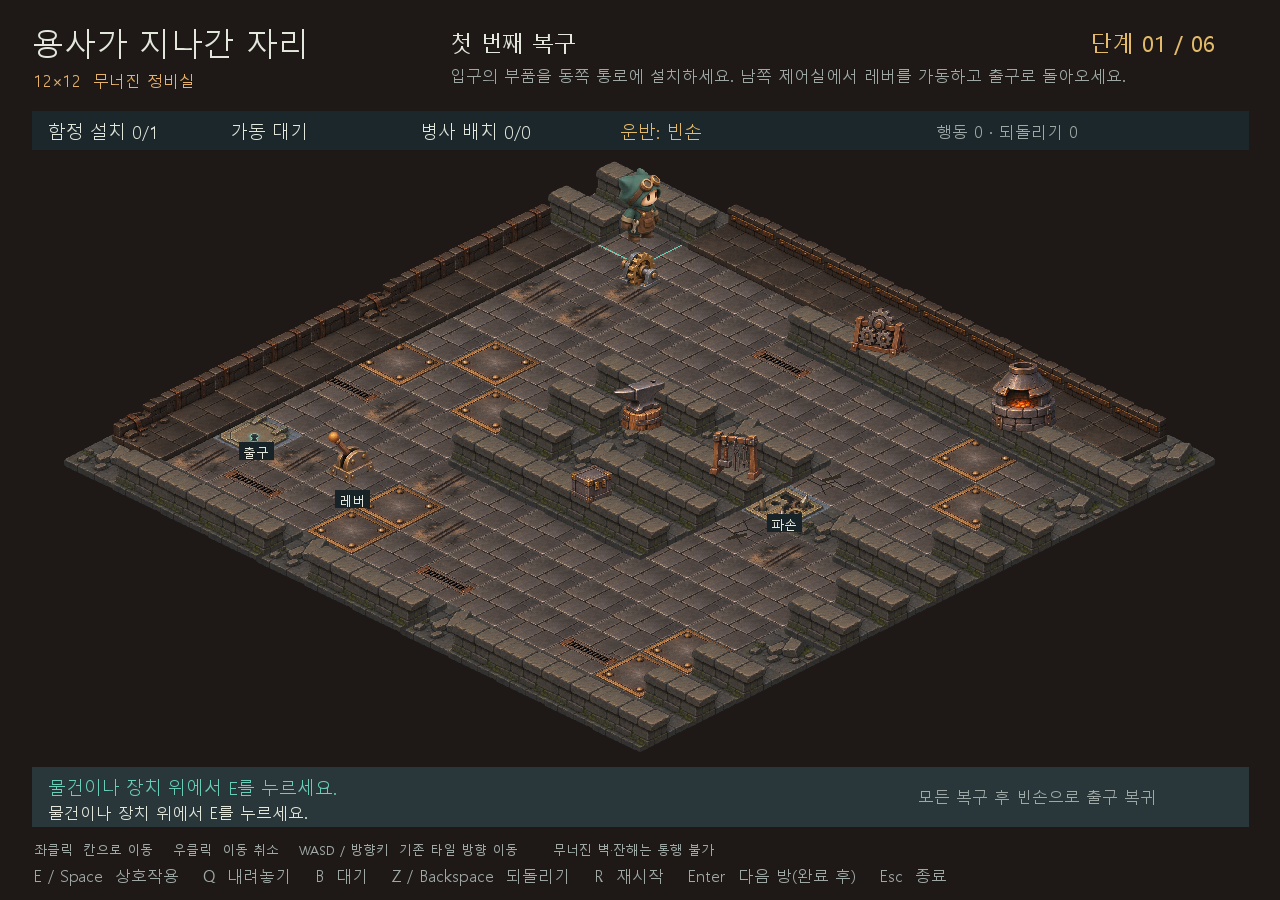
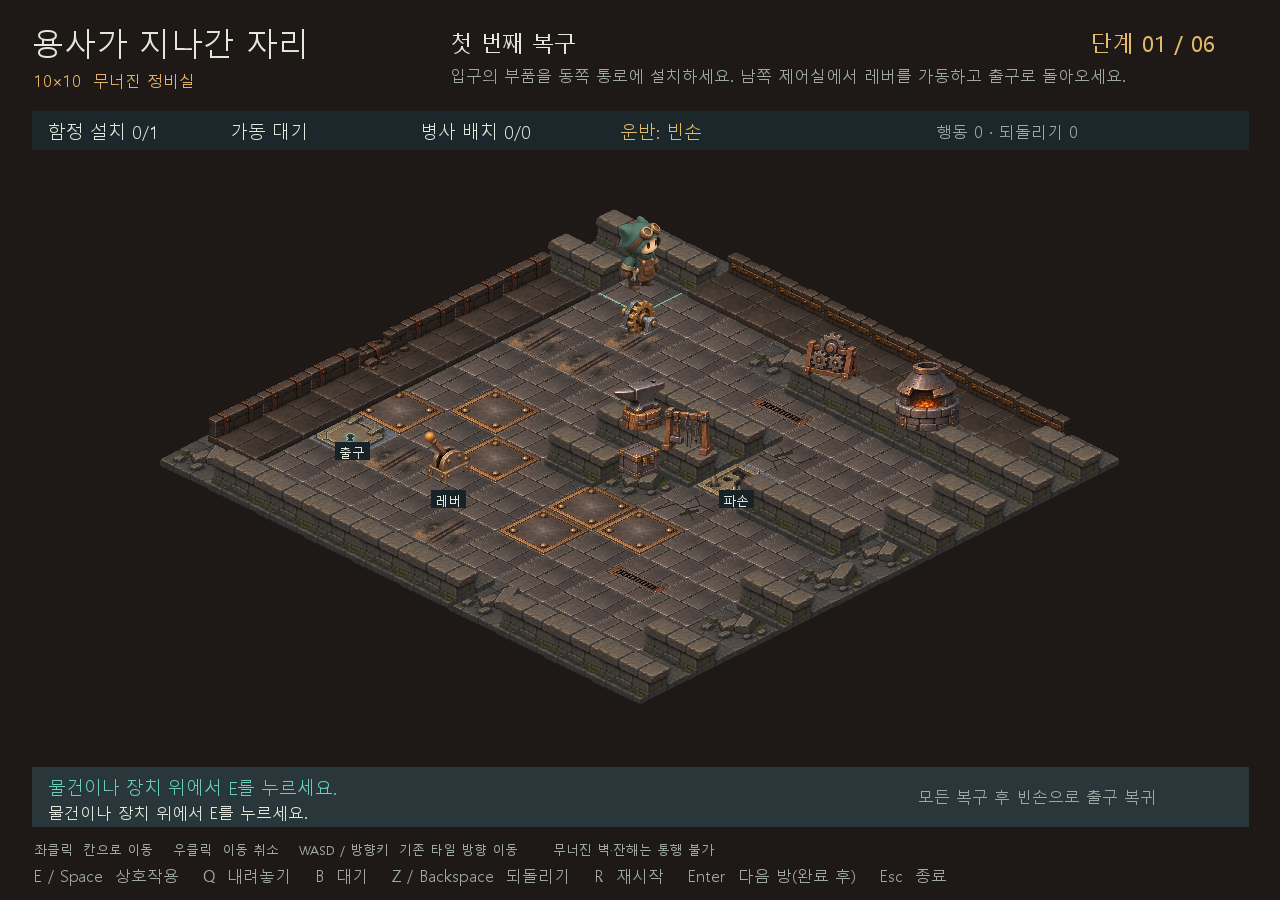
docs: 축소된 방 미리보기와 후반 스테이지 크기 계획 갱신

Changed region(s): [[0.0312, 0.1867, 0.9688, 0.84]]

diff --git a/README.md b/README.md
@@ -39,7 +39,7 @@
 
 ## 바로 실행
 
-**스테이지별 테마를 적용한 프로토타입 0.7**입니다. 12×12 입문방 3개와 발판·투입구·벨트 응용방 3개를 플레이할 수 있습니다. 바닥이나 물건·장치를 왼쪽 클릭하면 해당 칸까지 이동하며, 기존 키보드 조작도 사용할 수 있습니다. 기존 사선 시점과 1280×900 화면에서 바닥·외곽 벽·소품·배경색을 방마다 다르게 표시합니다. 최종 8개 스테이지의 난이도와 플레이 시간은 아직 조정하지 않았습니다.
+**스테이지별 테마를 적용한 프로토타입 0.7**입니다. 10×10 입문방 3개와 발판·투입구·벨트 응용방 3개를 플레이할 수 있습니다. 바닥이나 물건·장치를 왼쪽 클릭하면 해당 칸까지 이동하며, 기존 키보드 조작도 사용할 수 있습니다. 기존 사선 시점과 1280×900 화면에서 바닥·외곽 벽·소품·배경색을 방마다 다르게 표시합니다. 최종 8개 스테이지의 난이도와 플레이 시간은 아직 조정하지 않았습니다.
 
 ![여섯 스테이지의 실제 테마 화면](./docs/screenshots/themes/overview.png)
 
@@ -121,7 +121,7 @@ python main.py
 
 ## 플레이 규모
 
-현재 프로토타입은 여섯 방 모두 12×12칸입니다. 4번 방에서는 부품을 발판의 추로 사용한 뒤 다시 회수해 함정을 복구합니다. 5번 방에서는 투입구로 뼈를 벽 너머 발판에 보냅니다. 6번 방에서는 벨트로 부품을 보내 발판을 누르고 병사를 운반합니다. 1번 방은 함정 복구, 2번 방은 병사 조립·배치, 3번 방은 두 함정과 두 병사의 복구 순서를 다룹니다. 아래 표는 원본 PPT의 본편 기획 목표입니다.
+현재 프로토타입의 1~6번 방은 모두 10×10칸입니다. 후속 7~8번 방은 12×12칸으로 설계합니다. 4번 방에서는 부품을 발판의 추로 사용한 뒤 다시 회수해 함정을 복구합니다. 5번 방에서는 투입구로 뼈를 벽 너머 발판에 보냅니다. 6번 방에서는 벨트로 부품을 보내 발판을 누르고 병사를 운반합니다. 1번 방은 함정 복구, 2번 방은 병사 조립·배치, 3번 방은 두 함정과 두 병사의 복구 순서를 다룹니다. 아래 표는 원본 PPT의 본편 기획 목표입니다.
 
 | 항목 | 기획 목표 |
 | --- | --- |
@@ -168,7 +168,7 @@ python main.py
 │   ├── themes.py         # 스테이지별 테마 선택과 장식 배치 확인
 │   └── view.py           # pico2d 표시와 키보드·마우스 입력
 ├── assets/art_v1/        # 이미지·아틀라스·좌표·제작 원본
-├── data/stages.json      # 12×12 입문 3개와 기믹 응용방 3개
+├── data/stages.json      # 10×10 입문 3개와 기믹 응용방 3개
 ├── tests/                # 표준 unittest 회귀 검사
 └── 용사가 지나간자리.pptx
 ```
@@ -177,7 +177,7 @@ python main.py
 
 - **개발 환경:** Python · [pico2d 1.5.1](https://pypi.org/project/pico2d/1.5.1/)
 - **현재 상태:** 클릭 이동과 여섯 방의 개별 테마를 적용한 프로토타입 0.7
-- **구현 범위:** 클릭·키보드 이동·운반·복구·되돌리기·12×12 입문방 3개·발판·투입구·벨트 응용방·2.5D 에셋 화면·수리공 방향 및 걷기
+- **구현 범위:** 클릭·키보드 이동·운반·복구·되돌리기·10×10 입문방 3개·발판·투입구·벨트 응용방·2.5D 에셋 화면·수리공 방향 및 걷기
 - **후속 범위:** 7–8단계·최종 아트·사운드·진행 저장·배포 패키지
 
 기획서에서는 PPT에 명시된 내용과 보완 제안을 구분합니다. 세부 규칙은 개발과 플레이테스트를 통해 확정합니다.
